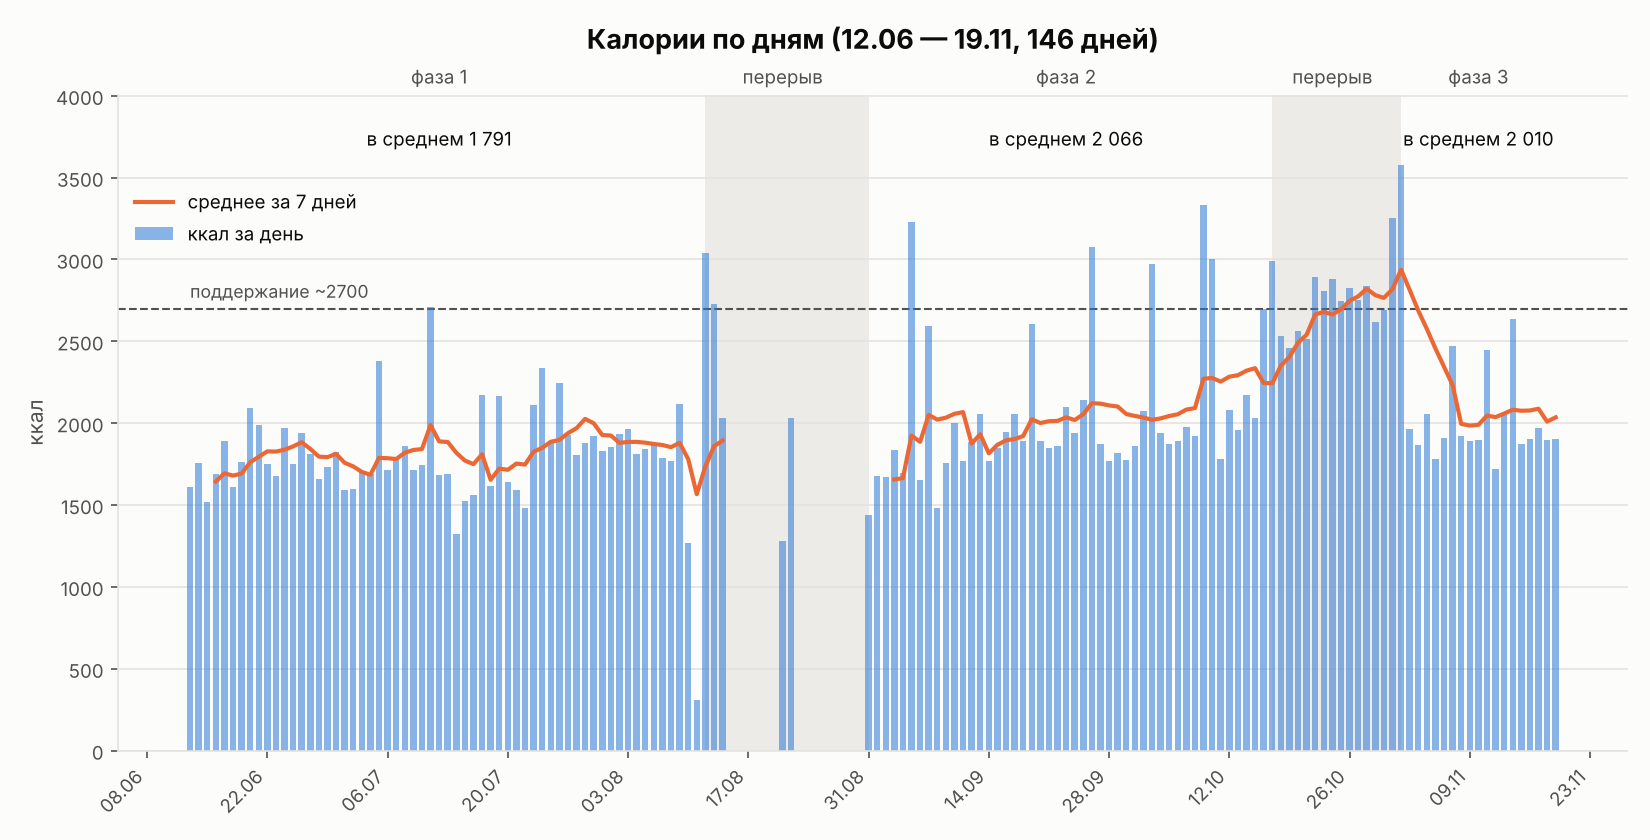
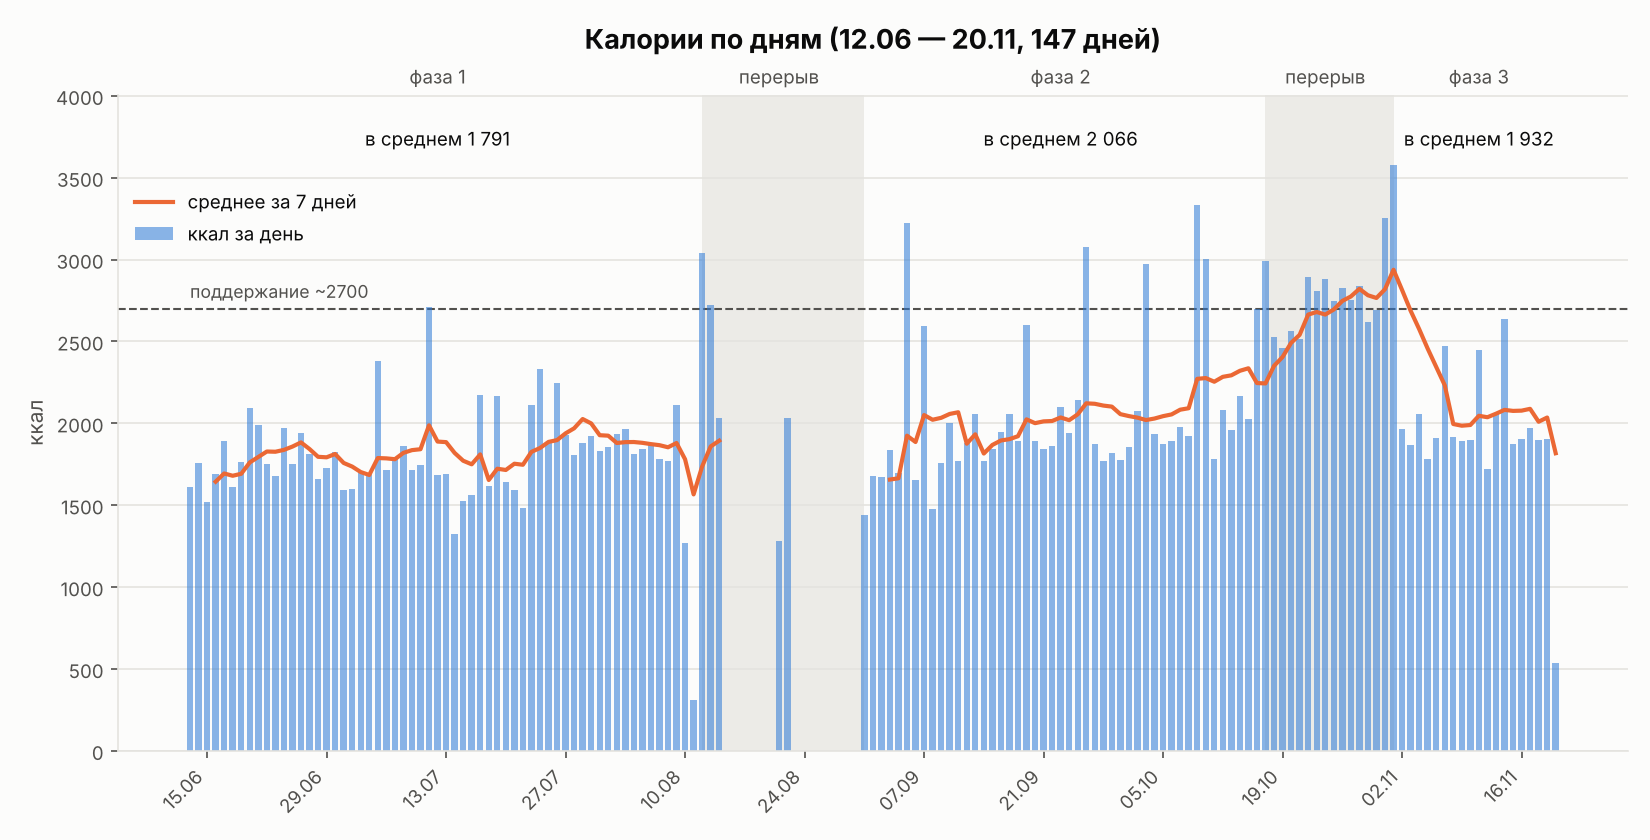
Журнал еды 20.11: завтрак
Яблоки, мандарины, куриное филе 189 г, 2 яйца — ~535 ккал / Б 62 г.
До цели 1900 осталось ~1365 ккал.

Claude-Session: https://claude.ai/code/session_01BcPogZpufV1jxrQv9Sbikk

diff --git a/health/журнал-еды.md b/health/журнал-еды.md
@@ -11,6 +11,7 @@
 
 | Дата | Кратко | Ккал | Белок |
 |---|---|---|---|
+| 20.11 (пт) | фаза 3, день 19 · цель 1900 ккал · утром 73,5 · завтрак яблоки 201 г + мандарины 120 г + куриное филе 189 г + 2 варёных яйца (день идёт) | ~535＋ | ~62＋ г |
 | 19.11 (чт) | фаза 3, день 18 · цель 1900 ккал · утром 72,9 (минимум плана) · 🏋 зал, грудь + бицепс, лёгкая неделя (по 20 повторений) · завтрак мандарины 162 г + яблоки 242 г + сливы 208 г + 2 варёных яйца + варёные брокколи, цветная капуста и морковь 323 г / перекус молоко 1,5% 200 г + мандарины 84 г + сливы 193 г / сливы 200 г + курица с прованскими травами 200 г / обезжиренный творог 174 г / ещё варёные овощи 331 г / молоко 1,5% 150 г / ужин куриное филе 200 г + яблоки 285 г / овощной микс 318 г + ещё 258 г · день завершён, ровно в цель | ~1902 | ~179 г |
 | 18.11 (ср) | фаза 3, день 17 · цель 1900 ккал · утром 73,6 · [Сбер] завтрак варёная грудка 344 г + дыня 334 г + хрен 1 ч. л. / сливки 10% 20 г + ещё 40 г / [Делимарше] суп из кабачков с тофу + кабачки с морковью и карри + индейка с шалфеем + курица в кокосовом молоке + апельсины и мандарины 294 г / [ВиТ] капучино 300 мл / ужин яблоки 418 г + курица с прованскими травами 200 г + брокколи и цветная капуста 314 г / молоко 1,5% 100 г · день завершён, ровно в цель | ~1898 | ~222 г |
 | 17.11 (вт) | фаза 3, день 16 · цель 1900 ккал · утром 73,5 · 🏋 зал, спина + трицепс, лёгкая неделя цикла (по 20 повторений) · завтрак овощная смесь «Сеул» 350 г + варёные яйца 180 г + обезжиренный творог 179 г + молоко 1,5% 105 г / ещё молоко 1,5% 100 г / обед мандарины 199 г + сливы 82 г + яблоки 238 г + овощная смесь 400 г + курица с прованскими травами 200 г / молоко 1,5% 78 г / ужин курица су-вид 193 г + брокколи и цветная капуста 400 г + яблоки 200 г + апельсины 188 г + 2 варёных яйца / молоко 1,5% 110 г · день завершён, +72 к цели | ~1972 | ~205 г |
@@ -160,6 +161,23 @@
 | 13.06 (сб) | творог+банан / курица+гречка+салат / 3 яйца+огурец / рыба+гречка+огурец | ~1610 | ~170 г |
 | 14.06 (вс) | творог+банан / курица+булгур+салат+бульон / яблоко+3 яйца+огурец / сардина+булгур+огурец | ~1755 | ~168 г |
 | 15.06 (пн) | творог+банан / [вне дома] салат+суп+курица+гречка / 4 яйца / курица+бульон+яблоко+огурец | ~1519 | ~145 г |
+
+---
+
+## 20 ноября (пт) — фаза 3, день 19 · утром 73,5
+
+День в процессе. **Цель — 1900 ккал** (обычный день). Рабочий ориентир БЖУ: **Б 150 (140–160) / Ж 60 / У 190 г**.
+
+| Приём | Что | Ккал | Б | Ж | У |
+|---|---|---|---|---|---|
+| Завтрак | яблоки 201 г (~47/100г, Б ~0,4 / Ж ~0,4 / У ~9,8; очищенный вес) | ~94 | ~0,8 | ~0,8 | ~19,7 |
+| | мандарины 120 г (38/100г, Б 0,8 / Ж 0,2 / У 7,5; очищенный вес) | ~46 | ~1,0 | ~0,2 | ~9,0 |
+| | куриное филе 189 г — то же, что на ужин 19.11 (113,8/100г, Б 24,4 / Ж 1,8 / У 0) | ~215 | 46,1 | 3,4 | 0 |
+| | яйца варёные 116 г, 2 шт. (155/100г, Б 12,6 / Ж 10,6 / У 1,1 — прежняя справочная оценка) | ~180 | ~14,6 | ~12,3 | ~1,3 |
+| | *завтрак итого* | *~535* | *~62,5* | *~16,7* | *~30,0* |
+| **Пока за день** | | **~535** | **~62,5** | **~16,7** | **~30,0** |
+
+Заметка: яблоки 201 г (47/0,4/0,4/9,8) — 94,470 ккал / Б 0,804 / Ж 0,804 / У 19,698 г; мандарины 120 г (38/0,8/0,2/7,5) — 45,600 / 0,960 / 0,240 / 9,000; куриное филе 189 г — тот же продукт, что 19.11 вечером (113,8/24,4/1,8/0) — 215,082 / 46,116 / 3,402 / 0; яйца варёные 116 г, 2 шт. (155/12,6/10,6/1,1) — 179,800 / 14,616 / 12,296 / 1,276. Завтрак всего 534,952 ккал / Б 62,496 / Ж 16,742 / У 29,974 г. До цели 1900 ккал осталось 1365,048 ккал; до белка 140–160 г — 77,504–97,504 г; до Ж 60 — 43,258 г; до У 190 — 160,026 г.
 
 ---
 
